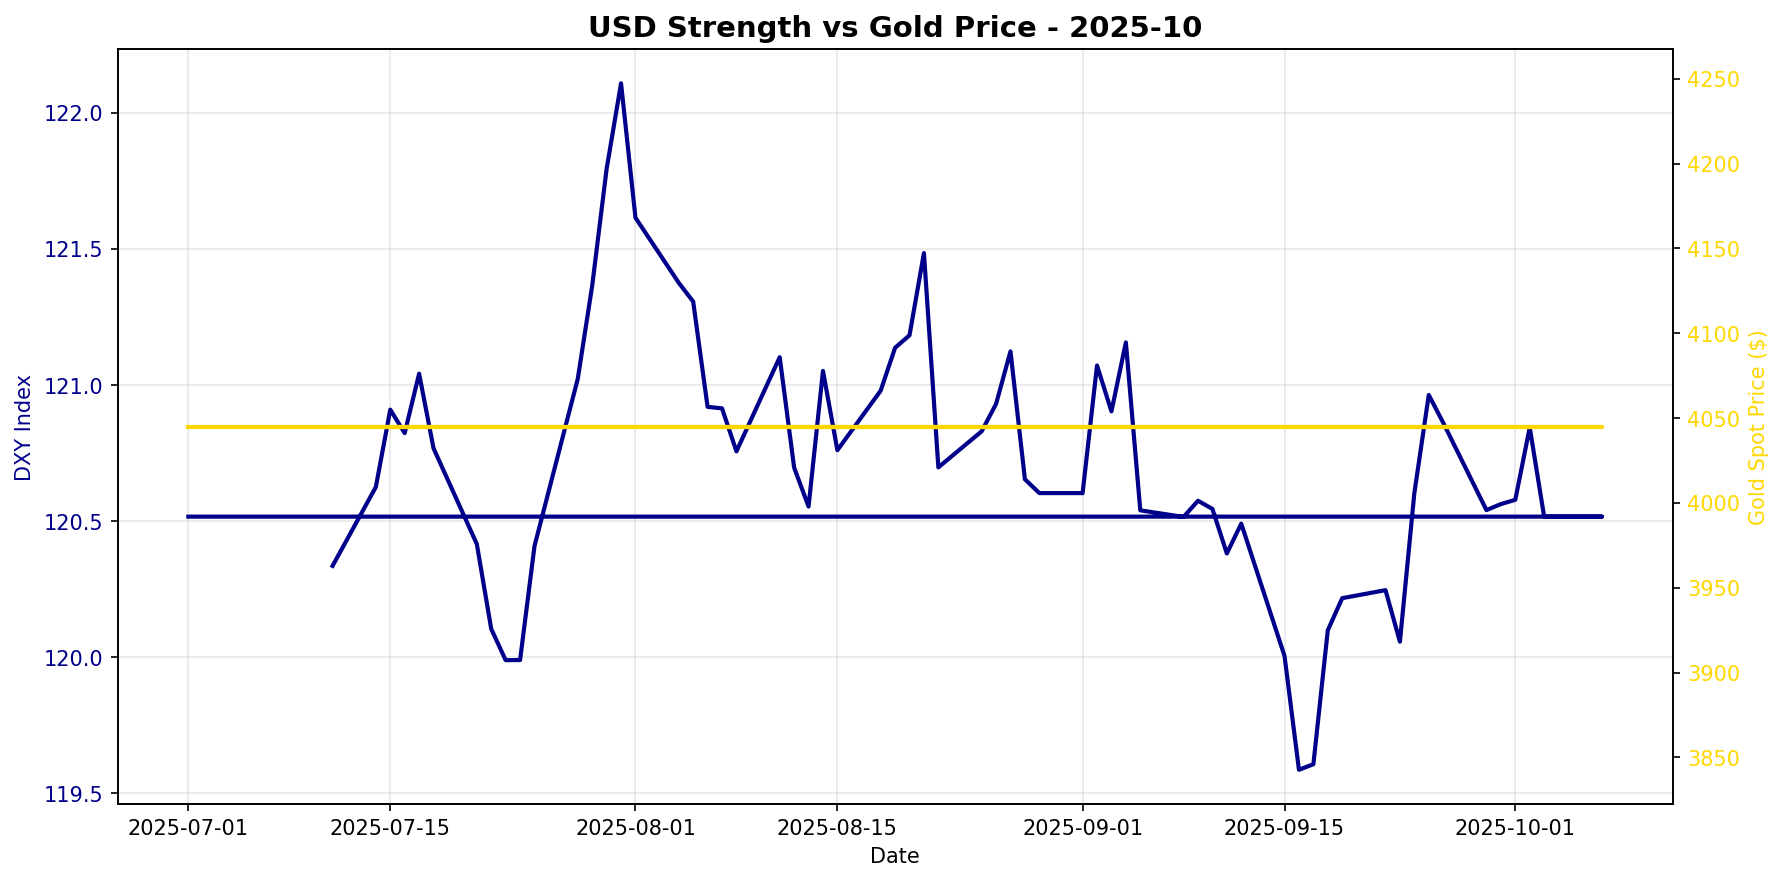
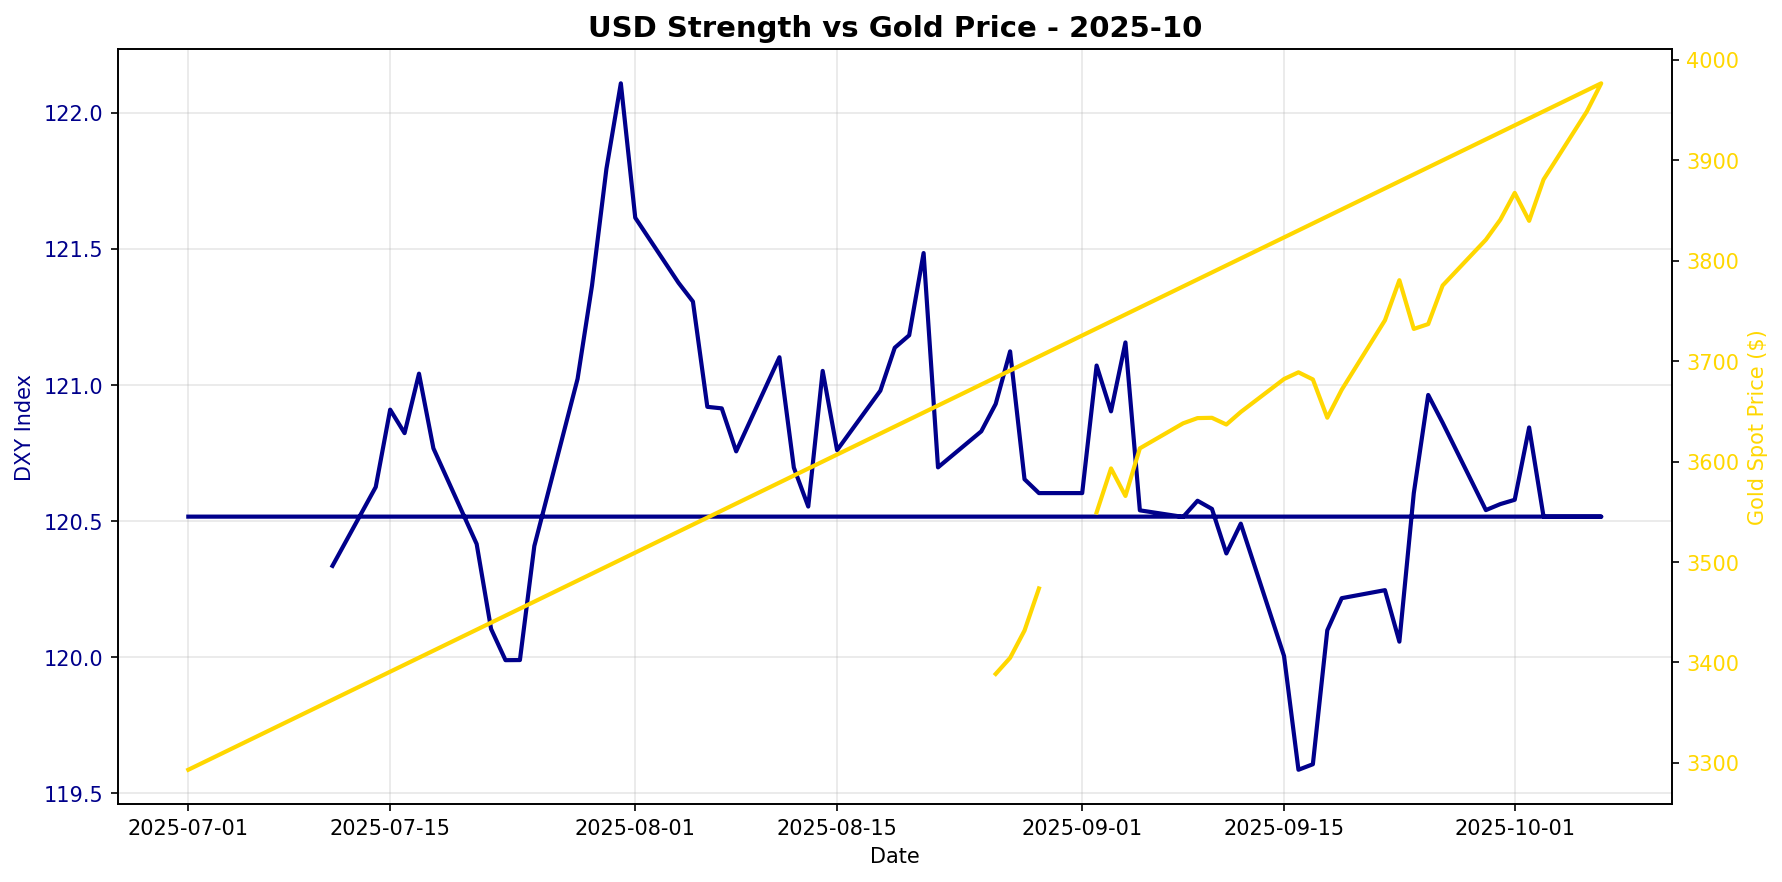
📊 Updated Oct 2025 report with manual gold prices and GPT-4o analysis

diff --git a/reports/2025-10-gold.md b/reports/2025-10-gold.md
@@ -1,50 +1,37 @@
 # Gold Market Monitor - October 2025
 
-*Generated: 2025-10-09 12:09:41*
+*Generated: 2025-10-09 09:42:09*
 
 ---
 
 ## Executive Summary
 
-## Executive Summary
+**1. What Changed:** In the past 30 days, the most significant shift has been the sharp increase in real interest rates, with the 10-year TIPS yield rising by 6.55%. This is typically bearish for gold, as higher real yields increase the opportunity cost of holding non-yielding assets like gold. Concurrently, the US Dollar has strengthened with a 0.76% increase in the DXY index, adding further downward pressure on gold prices. Despite these headwinds, gold has shown resilience, evidenced by an 8.01% increase in the 30-day return, indicating some anomaly potentially driven by other factors like central bank purchases.
 
-**Market Regime:** MILDLY BULLISH (Score: 2.75)
+**2. Why It Matters:** The macro regime currently points to a mildly bearish outlook for gold, primarily due to the dual pressures of rising real yields and a stronger USD. These factors traditionally lead to lower gold prices as they diminish gold's appeal as a safe-haven asset. However, central banks' moderate buying activity of 166.5 tonnes in the latest quarter provides some support, suggesting that institutional demand might be counteracting negative price pressures to some extent. The combination of these elements suggests a cyclical trend rather than a structural shift, where temporary strength in gold could be at risk if macro conditions persist.
 
-Over the past 30 days, real yields have fallen by 1.1%, while the US dollar has weakened by 0.1%. Gold spot prices decreased by 0.0% during this period.
-
-**Key Drivers:**
-
-✅ Real yields falling (+1.0)
-✅ USD weakening (+0.8)
-✅ Moderate CB buying (+1.0)
-
-**Position Recommendation:** Maintain or slightly increase position
-
-**Conviction Level:** Moderate conviction
-
-Note: This is a fallback analysis. For more detailed insights, check OpenAI API configuration.
-
+**3. Position Implications:** Given the regime score of -1.75, which is mildly bearish, and considering the current macroeconomic environment, it is prudent to maintain or reduce gold exposure. The conviction for this action is supported by the strong upward trend in real yields and the USD's appreciation, which are significant headwinds for gold. Investors should monitor potential catalysts such as shifts in central bank policy or geopolitical events that could alter the current macro dynamics. Additionally, any sustained changes in inflation expectations or real yield trajectories could necessitate a re-evaluation of gold positions in the coming months.
 
 ---
 
-## Regime Score: 2.8 / 10
+## Regime Score: -1.8 / 10
 
 
 ```
 Bearish                Neutral                Bullish
    -5         -3         0         +3         +5
-    ──────────┼────█─────
+    ──────█───┼──────────
 ```
 
 
-**Assessment:** MILDLY BULLISH  
-**Conviction:** Moderate conviction  
-**Recommended Action:** Maintain or slightly increase position
+**Assessment:** MILDLY BEARISH  
+**Conviction:** Caution warranted  
+**Recommended Action:** Maintain or reduce exposure
 
 ### Score Components:
 
-  ✅ **Real yields falling**: +1.0
-  ✅ **USD weakening**: +0.8
+  ❌ **Real yields rising sharply**: -2.0
+  ❌ **USD strengthening**: -0.8
   ✅ **Moderate CB buying**: +1.0
 
 **Methodology:**
@@ -61,28 +48,28 @@ Bearish                Neutral                Bullish
 
 ### Real Interest Rates (Primary Gold Driver)
 - **10Y TIPS Yield:** 1.79%
-- **30-Day Change:** -1.10%
-- **90-Day Change:** N/A
-- **Interpretation:** Falling real yields = bullish for gold
+- **30-Day Change:** +6.55%
+- **90-Day Change:** -3.76%
+- **Interpretation:** Rising real yields = bearish for gold
 
 ### US Dollar Strength
 - **DXY Index:** 120.52
-- **30-Day Change:** -0.11%
-- **90-Day Change:** N/A
-- **Interpretation:** Weakening USD = bullish for gold
+- **30-Day Change:** +0.76%
+- **90-Day Change:** -0.65%
+- **Interpretation:** Strengthening USD = bearish for gold
 
 ### Market Sentiment
 - **VIX Index:** N/A
-- **Geopolitical Risk Index:** 395.1
+- **Geopolitical Risk Index:** 312.9
 - **Environment:** Normal risk levels
 
 ### Gold Valuation
-- **Gold Spot Price:** $4045.00
-- **30-Day Return:** +0.00%
-- **Real Gold Price (CPI-Adjusted):** $N/A
+- **Gold Spot Price:** $3976.60
+- **30-Day Return:** +8.01%
+- **Real Gold Price (CPI-Adjusted):** $3961.45
 - **Real Gold Z-Score (5Y):** N/A
   - *Insufficient history for z-score*
-- **Gold/S&P 500 Ratio:** 0.6024
+- **Gold/S&P 500 Ratio:** 0.5922
 
 ### Investment Flows
 - **GLD Shares Outstanding:** N/A
@@ -125,7 +112,7 @@ Bearish                Neutral                Bullish
 - End: 2025-10-07 00:00:00
 - Days: 98
 
-**Calculation Date:** 2025-10-09 12:09:40.033657
+**Calculation Date:** 2025-10-09 09:42:00.816591
 
 ---
 
